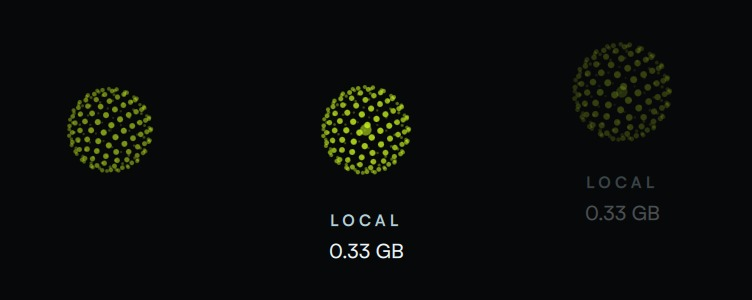
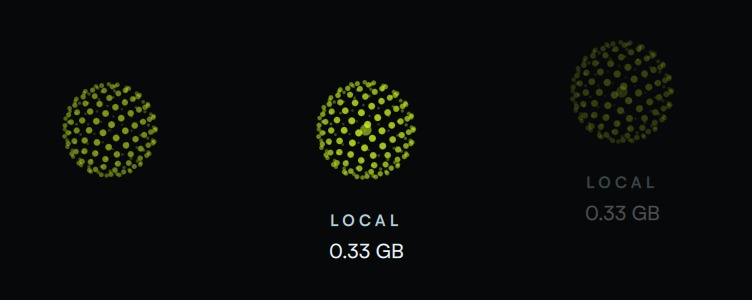
v5 kit: W3 focus lift on all four gauges, clamped focus amount
focusLevel now scales the art 4 percent on PulseRing and DotArc as well (DotBar
and LocalOrb already did), all through the Motion expand spring, and every use
is clamped to 0..1. LocalOrb drops its 0.9 resting shrink so focus is the only
size modifier besides activity. Stills re-rendered at 4288ee8 + this commit.

Changed region(s): [[0.0612, 0.27, 0.2141, 0.6], [0.3976, 0.27, 0.5505, 0.6], [0.7646, 0.15, 0.887, 0.48]]

diff --git a/nexuslink.hud/v5/kit/LocalOrb.qml b/nexuslink.hud/v5/kit/LocalOrb.qml
@@ -5,7 +5,7 @@ import NexusHud.V5 1.0
 
 // LocalOrb.qml - the local model as a dot sphere. The sphere radius carries
 // the model size, the field breathes slowly all the time and activity lifts
-// brightness, a centre core and 6 percent of radius. No text unless showValue.
+// brightness, a centre core and 8 percent of radius. No text unless showValue.
 //
 // Card API (W3): sizeGb, activity 0..1, accent, size, showValue, label, and the
 // 0..1 focus amount (spelled focusLevel, because QQuickItem::focus is FINAL in
@@ -63,6 +63,7 @@ Item {
 
     readonly property real springStiffness: Motion.expandOmega * Motion.expandOmega
     readonly property real springDamping: 2 * Motion.expandZeta * Motion.expandOmega
+    readonly property real focusAmount: Math.max(0, Math.min(1, focusLevel))
 
     // Unit sphere points with the s2 depth cues folded in. Positions are on the
     // unit sphere; the delegate multiplies by orbRadius.
@@ -131,7 +132,7 @@ Item {
                 anchors.centerIn: parent
                 width: 0
                 height: 0
-                scale: (0.9 + 0.1 * root.focusLevel) * (1 + 0.08 * Math.max(0, Math.min(1, root.activity)))
+                scale: (1 + 0.08 * Math.max(0, Math.min(1, root.activity))) * (1 + 0.04 * root.focusAmount)
                 opacity: 0.62 + 0.38 * Math.max(0, Math.min(1, root.activity))
 
                 Behavior on scale {

diff --git a/nexuslink.hud/v5/kit/PulseRing.qml b/nexuslink.hud/v5/kit/PulseRing.qml
@@ -70,6 +70,7 @@ Item {
     // damping = 2 * zeta * omega. Same conversion in all four gauges.
     readonly property real springStiffness: Motion.expandOmega * Motion.expandOmega
     readonly property real springDamping: 2 * Motion.expandZeta * Motion.expandOmega
+    readonly property real focusAmount: Math.max(0, Math.min(1, focusLevel))
 
     Item {
         id: art
@@ -77,7 +78,7 @@ Item {
         height: root.referenceSize
         anchors.horizontalCenter: parent.horizontalCenter
         y: 0
-        scale: root.artDiameter / root.referenceSize
+        scale: (root.artDiameter / root.referenceSize) * (1 + 0.04 * root.focusAmount)
 
         Behavior on scale {
             SpringAnimation {
@@ -99,7 +100,7 @@ Item {
                 required property int index
                 required property var modelData
                 property var ring: modelData
-                opacity: root.hasReading ? 0.9 + 0.1 * root.focusLevel : 0.45
+                opacity: root.hasReading ? 0.9 + 0.1 * root.focusAmount : 0.45
 
                 Item {
                     id: ringField

diff --git a/nexuslink.hud/v5/kit/DotArc.qml b/nexuslink.hud/v5/kit/DotArc.qml
@@ -57,6 +57,7 @@ Item {
 
     readonly property real springStiffness: Motion.expandOmega * Motion.expandOmega
     readonly property real springDamping: 2 * Motion.expandZeta * Motion.expandOmega
+    readonly property real focusAmount: Math.max(0, Math.min(1, focusLevel))
 
     Item {
         id: art
@@ -64,7 +65,7 @@ Item {
         height: root.referenceSize
         anchors.horizontalCenter: parent.horizontalCenter
         y: 0
-        scale: root.artDiameter / root.referenceSize
+        scale: (root.artDiameter / root.referenceSize) * (1 + 0.04 * root.focusAmount)
 
         Behavior on scale {
             SpringAnimation {
@@ -91,7 +92,7 @@ Item {
                 x: root.referenceSize / 2 + Math.cos(angle) * root.arcRadius - dotDiameter / 2
                 y: root.referenceSize / 2 + Math.sin(angle) * root.arcRadius - dotDiameter / 2
                 color: root.accent
-                opacity: lit ? 0.95 : 0.18 + 0.14 * root.focusLevel
+                opacity: lit ? 0.95 : 0.18 + 0.14 * root.focusAmount
                 antialiasing: true
             }
         }

diff --git a/nexuslink.hud/v5/kit/DotBar.qml b/nexuslink.hud/v5/kit/DotBar.qml
@@ -54,6 +54,7 @@ Item {
     readonly property int litDots: Math.round(pitchCount * shownLevel)
 
     readonly property string valueText: Math.round(shownLevel * 100) + " %"
+    readonly property real focusAmount: Math.max(0, Math.min(1, focusLevel))
 
     Item {
         id: bar
@@ -61,7 +62,7 @@ Item {
         height: root.barHeight
         anchors.horizontalCenter: parent.horizontalCenter
         y: 0
-        scale: 1 + 0.04 * root.focusLevel
+        scale: 1 + 0.04 * root.focusAmount
         transformOrigin: Item.Center
 
         Behavior on scale {
@@ -86,7 +87,7 @@ Item {
                 x: (index + 0.5) * root.pitch - dotDiameter / 2
                 y: (root.barHeight - dotDiameter) / 2
                 color: root.accent
-                opacity: lit ? 1.0 : 0.16 + 0.14 * root.focusLevel
+                opacity: lit ? 1.0 : 0.16 + 0.14 * root.focusAmount
                 antialiasing: true
             }
         }
